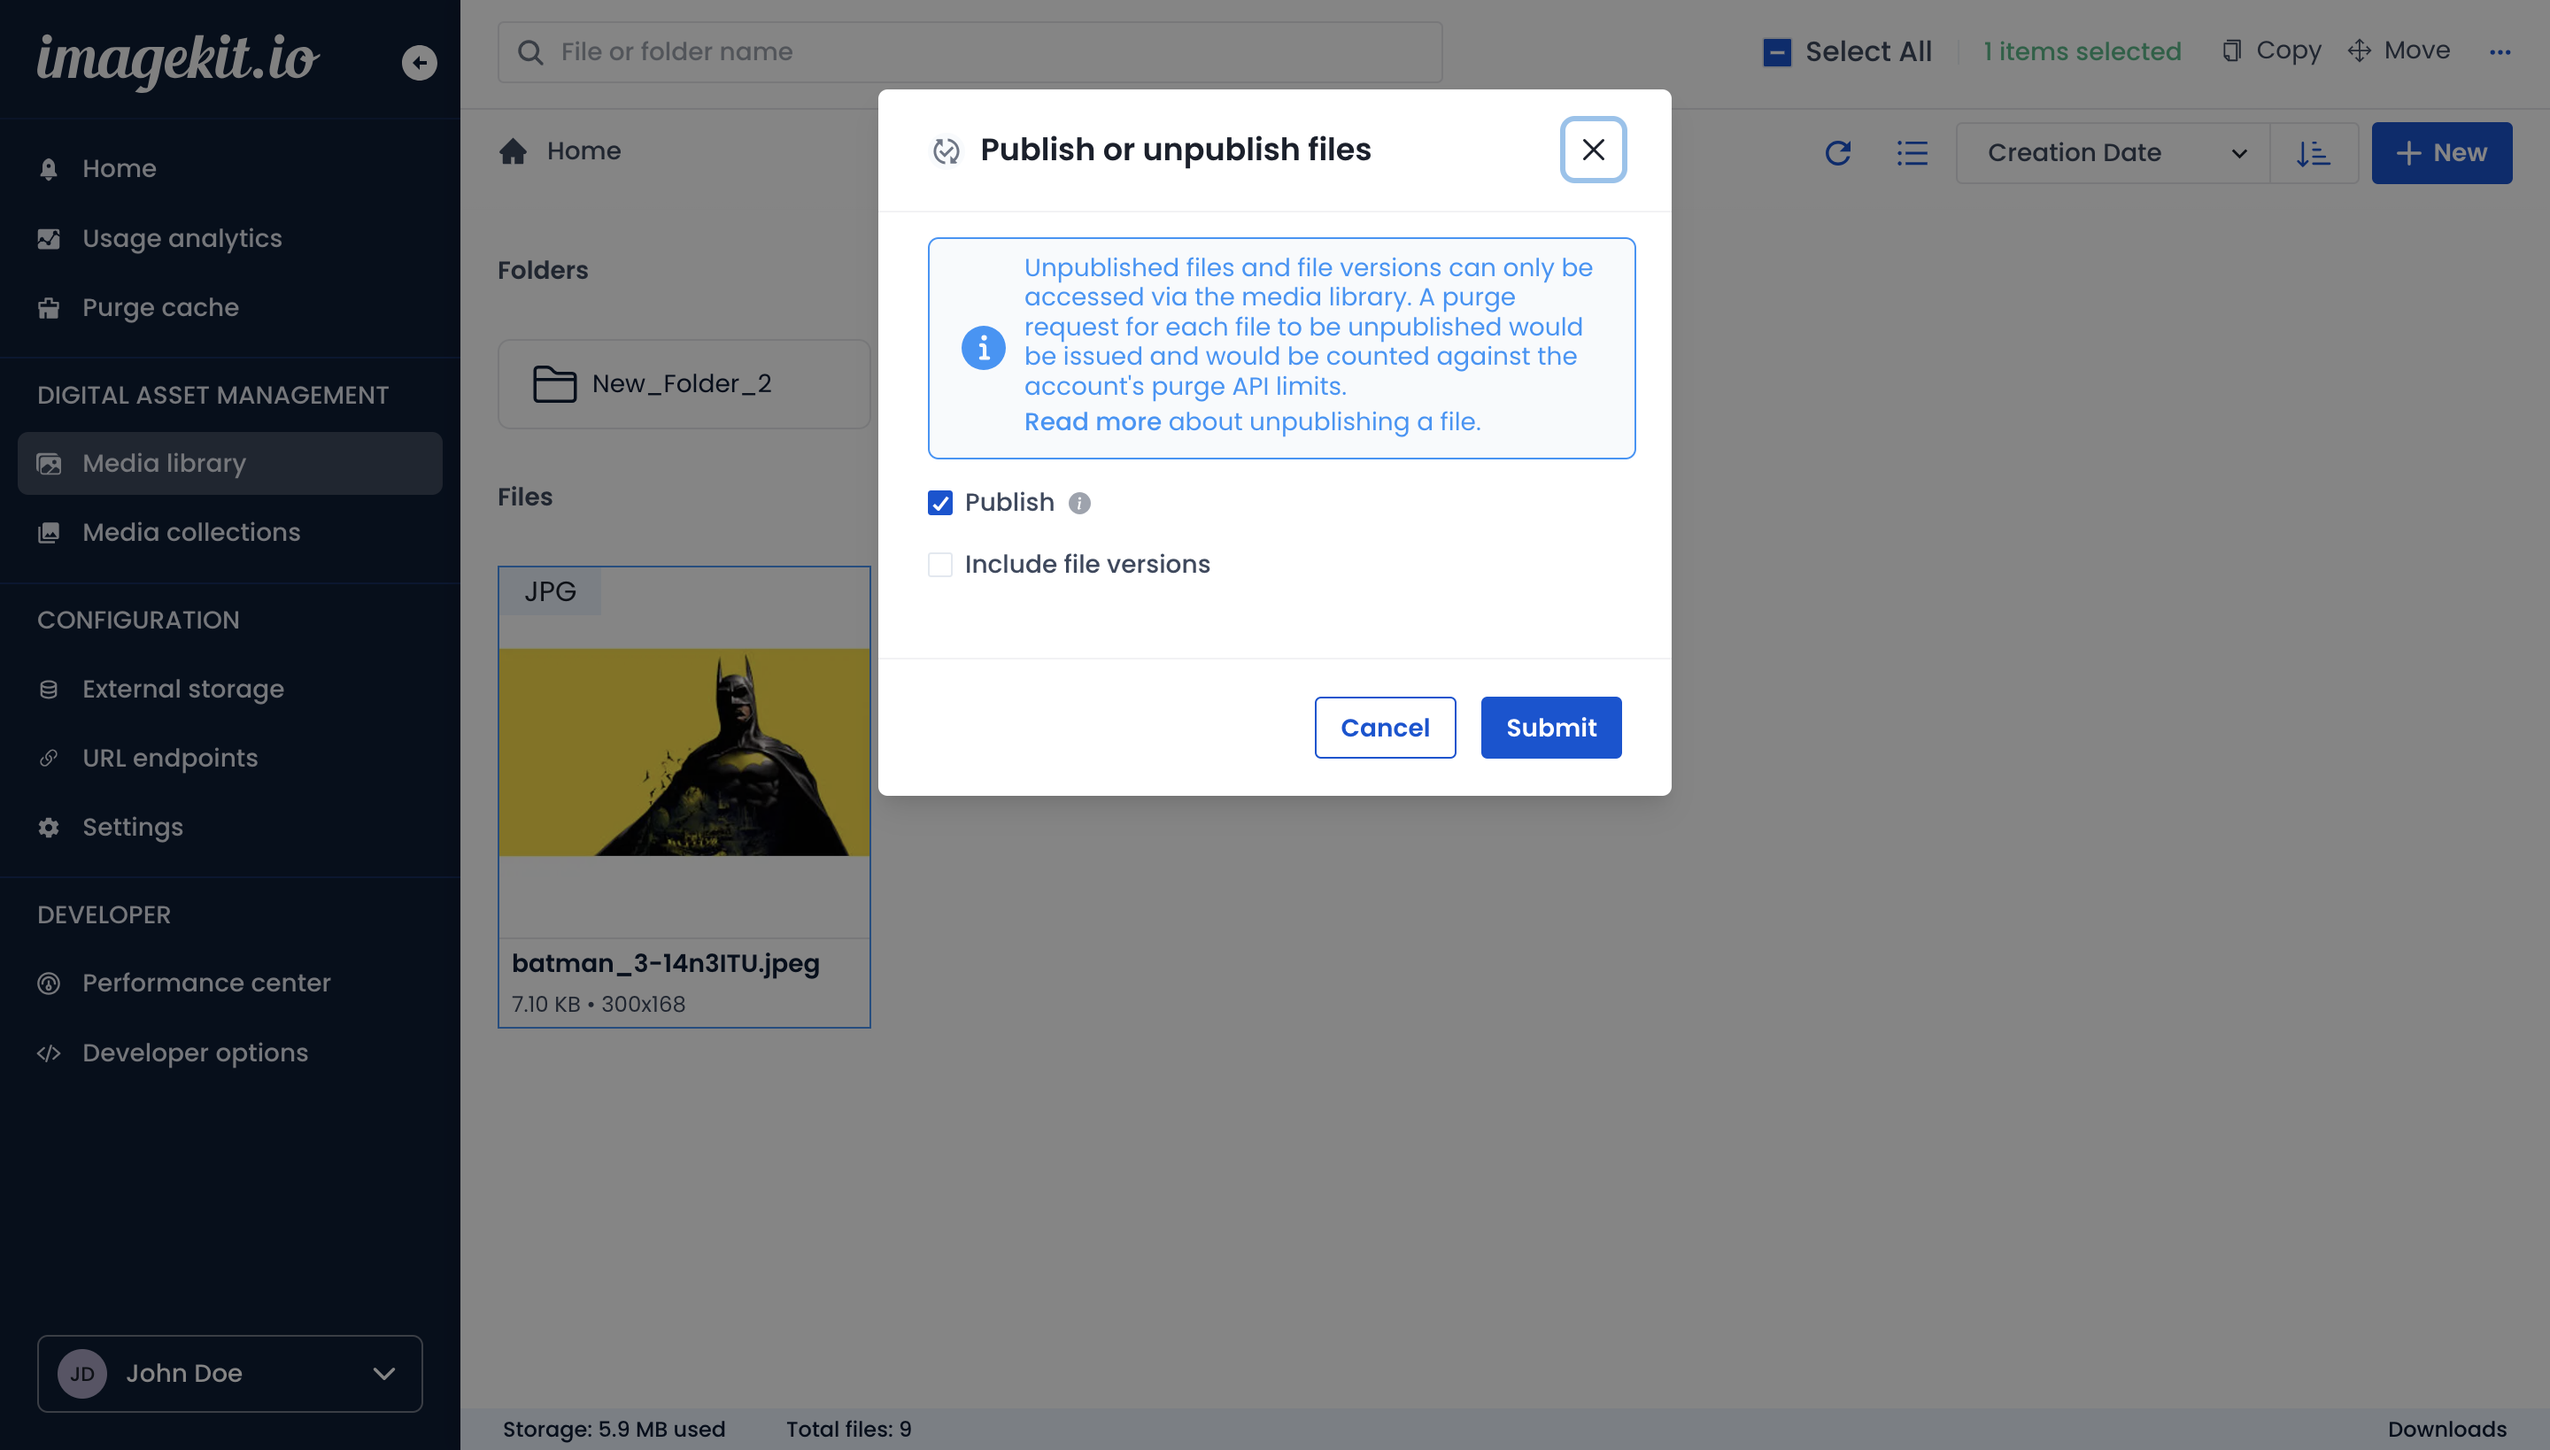
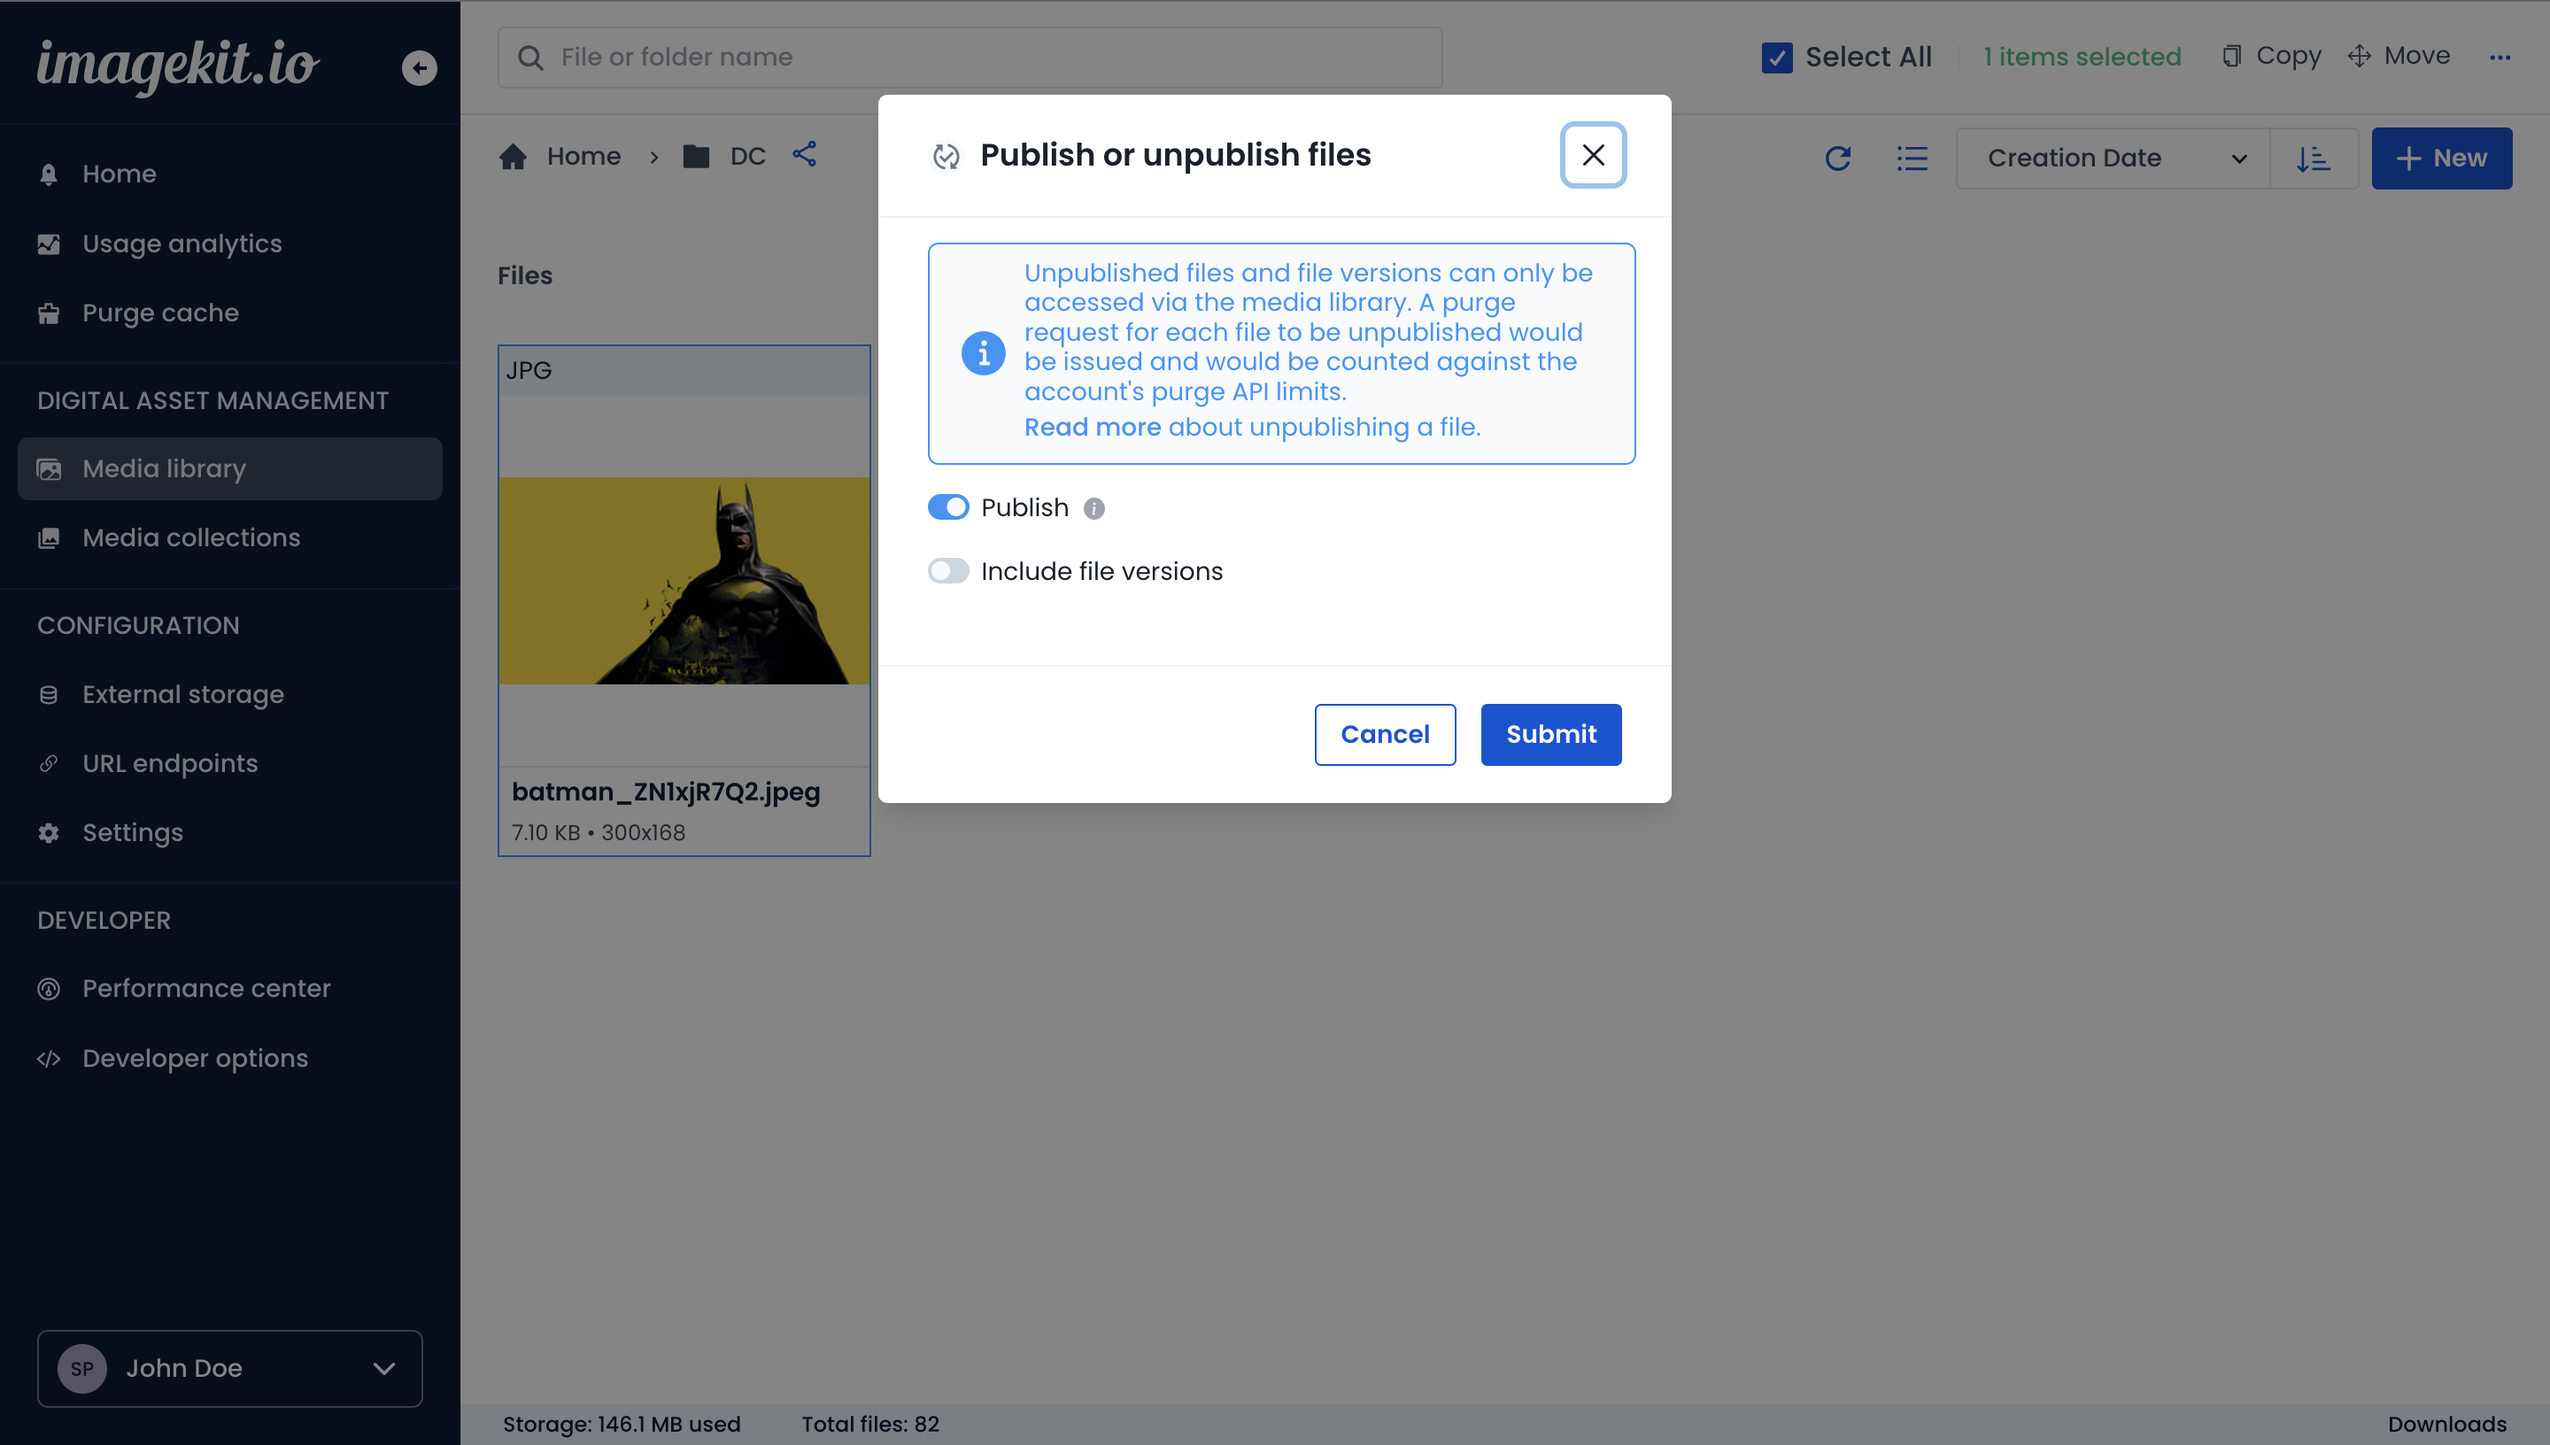
fix: changes for asyn behaviour and updated modal image

diff --git a/media-library/overview/draft-assets.md b/media-library/overview/draft-assets.md
@@ -19,18 +19,14 @@ By default, files are uploaded as published. If you want to ensure that all file
 
 ![Upload files in draft state by default](<../../.gitbook/assets/publish-file-on-upload-setting.png>)
 
-## Publish or unpublish a file
-
-You can change the state of a file from draft to published from the media library. Select a file and open the 'Publish or unpublish file' popup. You can check the option to publish or unpublish a file here. If you want this change to apply to all versions of the file, check the 'Include file versions' option.
-
-## Publish or unpublish multiple files
+## Publish or unpublish files
 
 {% hint style="info" %}
 **Limits**
 You can only publish or unpublish at most 100 files at once.
 {% endhint %}
 
-Like a single file, you can publish or unpublish multiple files simultaneously. Select multiple files and open the 'Publish or unpublish file' popup. You can check the option to publish or unpublish a file here. If you want this change to apply to all versions of the files, check the 'Include file versions' option. Unlike a single file, this operation happens asynchronously.
+You can publish or unpublish a single or multiple files at once. Select the files and open the 'Publish or unpublish file' popup. You can check the option to publish or unpublish a file here. If you want this change to apply to all versions of the files, check the 'Include file versions' option. This operation happens asynchronously.
 
 ![Publish or unpublish a files](<../../.gitbook/assets/publish-unpublish-file-modal.png>)
 
